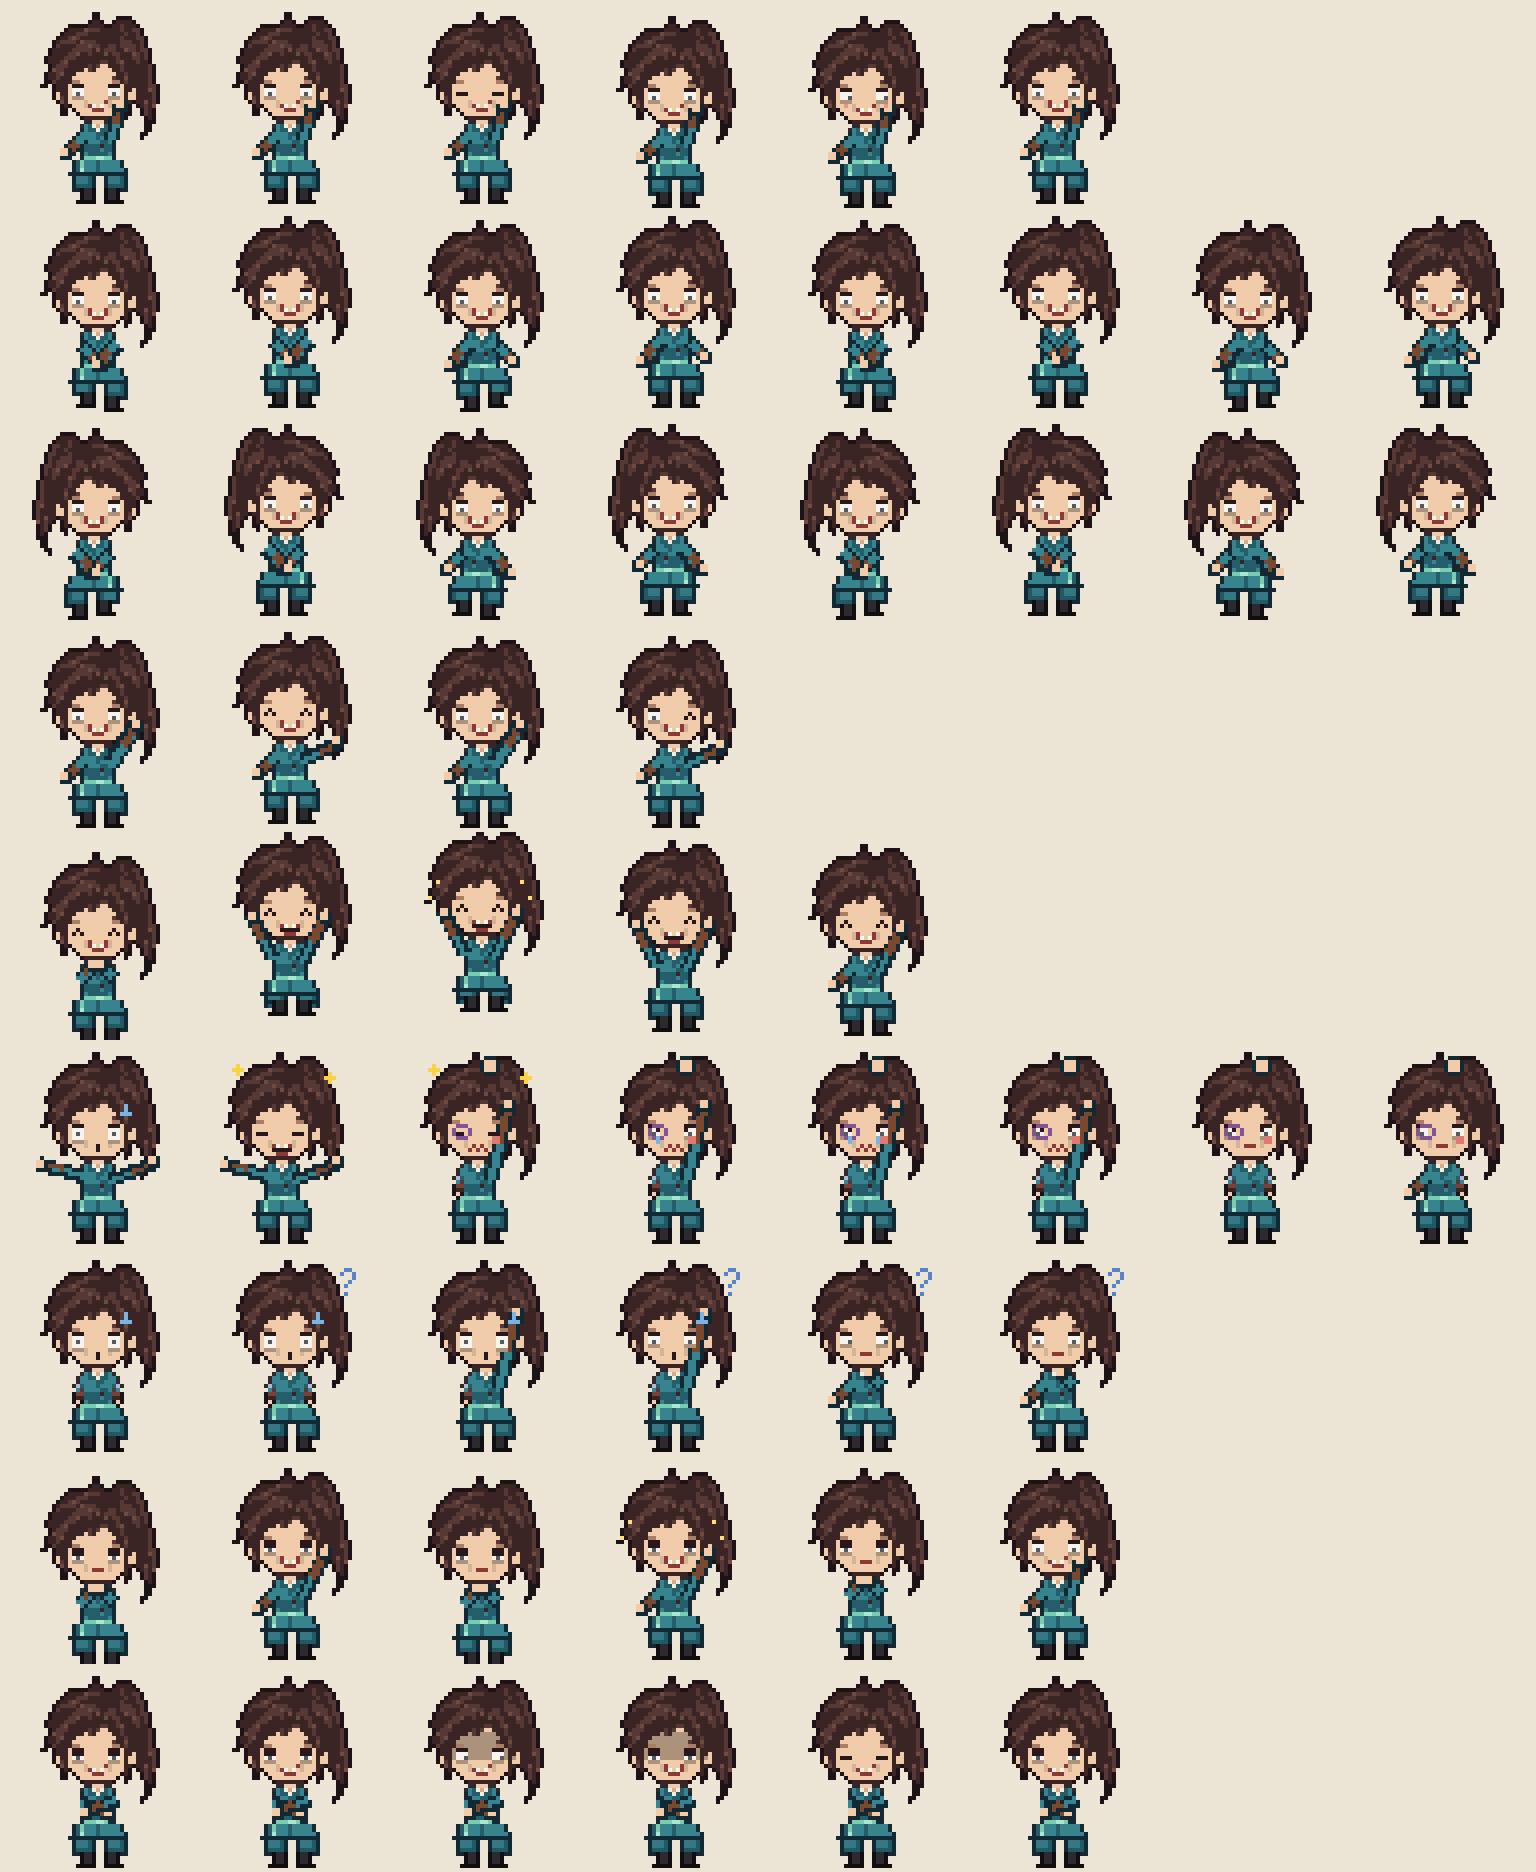
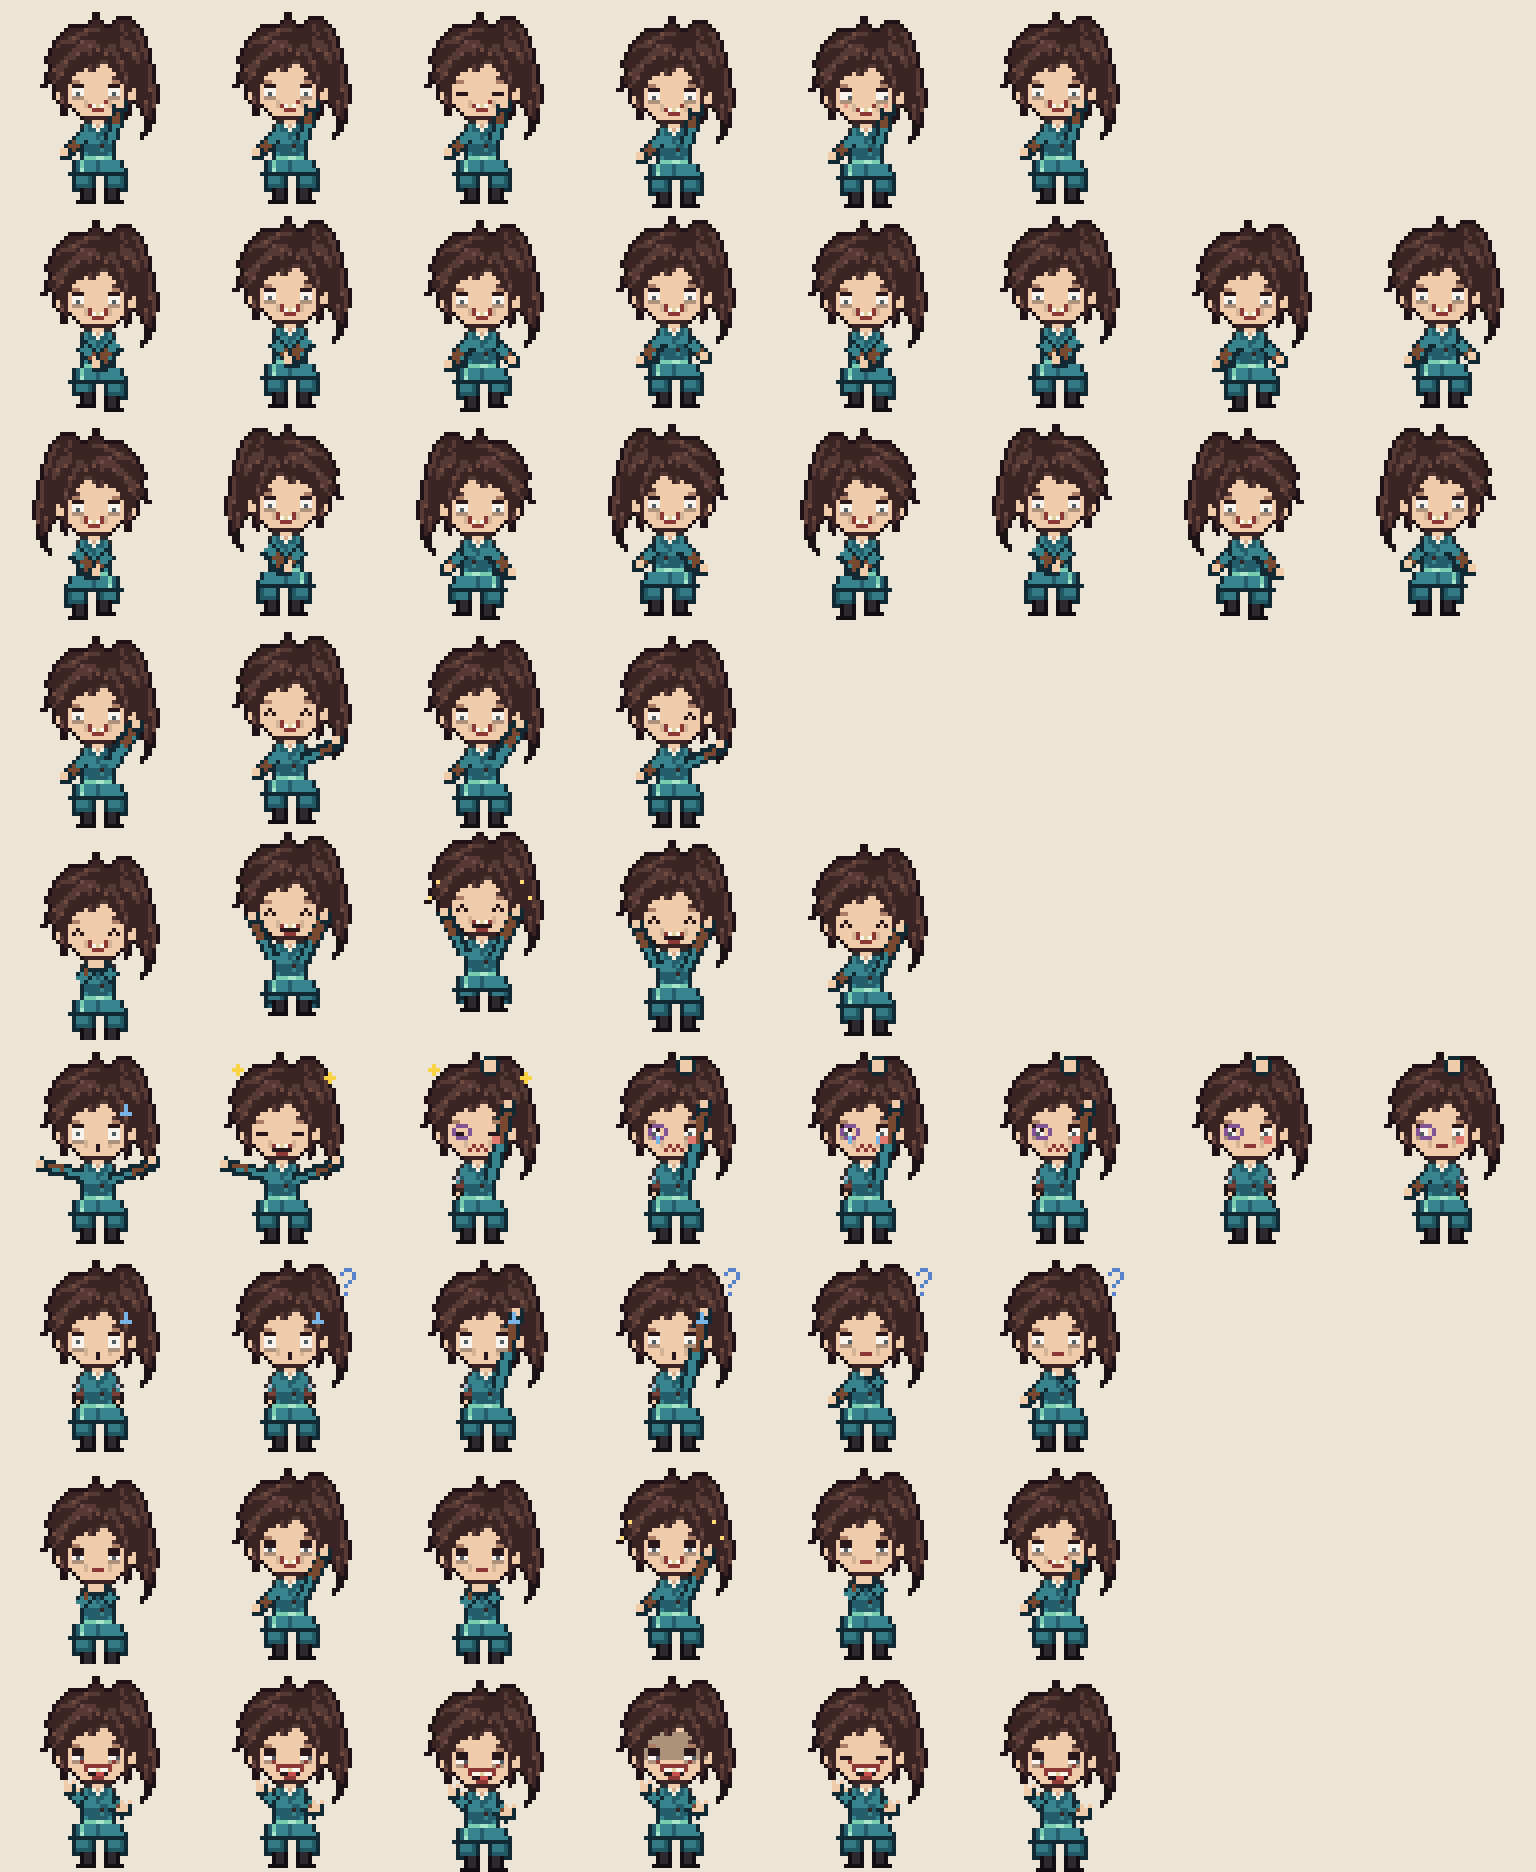
趙活的審視改成決鬥臉：斜眼咧嘴獰笑、雙手彎成爪
Claude-Session: https://claude.ai/code/session_014Ug96dnPv181rpAqSNBU9C

diff --git a/index.html b/index.html
@@ -180,10 +180,10 @@ cd mortal-pets && ./install.sh codex</pre>
 </main>
 
 <!-- ?v= 是版本號：更新角色資料時一起改，避免瀏覽器拿快取裡的舊檔配新網頁 -->
-<script src="claude-plugin/mortal-buddy/scripts/characters.js?v=0.3.18"></script>
-<script src="claude-plugin/mortal-buddy/scripts/locales/ja.js?v=0.3.18"></script>
-<script src="claude-plugin/mortal-buddy/scripts/locales/ko.js?v=0.3.18"></script>
-<script src="claude-plugin/mortal-buddy/scripts/locales/en.js?v=0.3.18"></script>
+<script src="claude-plugin/mortal-buddy/scripts/characters.js?v=0.3.19"></script>
+<script src="claude-plugin/mortal-buddy/scripts/locales/ja.js?v=0.3.19"></script>
+<script src="claude-plugin/mortal-buddy/scripts/locales/ko.js?v=0.3.19"></script>
+<script src="claude-plugin/mortal-buddy/scripts/locales/en.js?v=0.3.19"></script>
 <script>
   const BASE = window.MORTAL_CHARS;
   const { UPCOMING } = BASE;
@@ -435,7 +435,7 @@ cd mortal-pets && ./install.sh codex</pre>
     document.querySelectorAll("#tabs .tab").forEach((t) => t.setAttribute("aria-selected", t.dataset.id === id));
     const outfits = c.outfits || [{ id, name: "" }];
     const petId = outfits.some((o) => o.id === store.outfit[id]) ? store.outfit[id] : outfits[0].id;
-    sprite.style.backgroundImage = `url(codex/pets/${petId}/spritesheet.webp?v=0.3.18)`;
+    sprite.style.backgroundImage = `url(codex/pets/${petId}/spritesheet.webp?v=0.3.19)`;
     const ob = $("outfits");
     ob.innerHTML = "";
     ob.hidden = outfits.length < 2;

diff --git a/tools/build_sprites.py b/tools/build_sprites.py
@@ -311,6 +311,7 @@ ARM_HANDS = {
     "belly": ((5, 5), (-5, 5)),
     "wipe": ((-5, -9), (5, -9)),
     "cross": ((7, 3), (-7, 3)),  # 雙手抱胸
+    "claw": ((-3, -3), (3, 2)),  # 決鬥架式：一手抬在胸前、一手在腹前，手指彎成爪
     "clasp": ((5, -1), (-5, -1)),  # 雙手交握在胸前（小師妹的招牌姿勢）
     "hair_hold": ((-1, -3), (1, -3)),  # 雙手握著胸前的鬢髮
     "ribbon": ((4, -3), (-4, -3)),  # 葉雲裳：雙手捏著胸前的領結緞帶
@@ -1242,6 +1243,9 @@ def draw_bitmap_frame(c, pose):
             put((mx + ex * 3) // 4, (my + ey * 3) // 4, c["gold"])
         d.rectangle([ex - 1, ey - 1, ex + 1, ey + 1], fill=O)
         d.rectangle([ex - 1, ey - 1, ex, ey], fill=skin)
+        if name == "claw":  # 彎起來的指尖
+            for fx_, fy_ in ((-1, -2), (1, -2), (2, 0)):
+                put(ex + fx_ * (1 if side == 0 else -1), ey + fy_, skin)
         hands[side] = (ex, ey)
 
     # 五官
@@ -1274,11 +1278,11 @@ def draw_bitmap_frame(c, pose):
     if eyes == "sad":  # 眉尾下垂
         putf(19, 21, brow); putf(28, 21, brow)
     L, R = c.get("bm_eye_x", (20, 27))
-    if c.get("bm_eyes") == "bulge" and eyes in ("open", "wide", "side", "look_up", "drowsy", "wink", "sad"):
+    if c.get("bm_eyes") == "bulge" and eyes in ("open", "wide", "side", "look_up", "drowsy", "wink", "sad", "sly"):
         # 趙活：凸出來的大白眼、小小的灰眼珠，下面掛著眼袋
         bag = tuple(int(v * 0.72) for v in skin[:3]) + (255,)
         pupil = (84, 90, 98, 255)
-        o = {"side": 1, "look_up": 0}.get(eyes, 0)
+        o = {"side": 1, "sly": 1}.get(eyes, 0)
         for x in (L, R):
             if eyes == "wink" and x == R:
                 putf(x - 1, 23, eye); putf(x, 22, eye); putf(x + 1, 23, eye)
@@ -1289,7 +1293,7 @@ def draw_bitmap_frame(c, pose):
                     putf(xx, y, white_eye := (246, 244, 236, 255))
             for xx in (x - 1, x, x + 1):
                 putf(xx, 21, eye)
-            if eyes == "drowsy":  # 眼皮垂下來蓋住一半
+            if eyes in ("drowsy", "sly"):  # 眼皮垂下來蓋住一半；sly 是決鬥時斜眼瞄人
                 for xx in (x - 1, x, x + 1):
                     putf(xx, 22, eye)
             if eyes == "sad":  # 眼皮往外垂
@@ -1336,6 +1340,17 @@ def draw_bitmap_frame(c, pose):
             for x in range(22, 27):
                 putf(x, 26, m); putf(x, 27, eye)
             putf(23, 26, white); putf(24, 26, (224, 210, 160, 255)); putf(25, 26, white)
+            for x in range(23, 26):
+                putf(x, 28, m)
+        elif mouth == "duel":  # 決鬥臉：嘴角咧到耳根，露出上排牙和舌頭
+            putf(20, 24, m); putf(28, 24, m)
+            for x in range(21, 28):
+                putf(x, 25, m)
+            for x in range(22, 27):
+                putf(x, 26, white); putf(x, 27, eye)
+            putf(24, 26, (224, 210, 160, 255))
+            putf(21, 26, m); putf(27, 26, m)
+            putf(24, 27, (200, 80, 80, 255)); putf(25, 27, (200, 80, 80, 255))
             for x in range(23, 26):
                 putf(x, 28, m)
         elif mouth == "flat":
@@ -1894,13 +1909,13 @@ def poses_zhaohuo():
                     P(arms=("hip", "fist_up"), eyes="squint", mouth="grin", fx=("spark",)),
                     P(arms=("fist_side", "fist_side"), eyes="squint", mouth="flat"),
                     P(arms=("hip", "cheek"), eyes="open", mouth="smirk")],
-        # 審視：抱胸打量，臉上一片陰影冷笑
-        "review": [P(arms=("cross", "cross"), eyes="drowsy", mouth="smirk"),
-                   P(arms=("cross", "cross"), eyes="drowsy", mouth="smirk", tilt=1),
-                   P(arms=("cross", "cross"), eyes="side", mouth="smirk", fx=("gloom",)),
-                   P(arms=("cross", "cross"), eyes="drowsy", mouth="grin", fx=("gloom",)),
-                   P(arms=("cross", "cross"), eyes="blink", mouth="smirk"),
-                   P(arms=("cross", "cross"), eyes="drowsy", mouth="smirk")],
+        # 審視：擺出決鬥架式，斜眼咧嘴獰笑（官方決鬥時那張臉）
+        "review": [P(arms=("claw", "claw"), eyes="sly", mouth="duel"),
+                   P(arms=("claw", "claw"), eyes="sly", mouth="duel", tilt=1),
+                   P(arms=("claw", "claw"), eyes="sly", mouth="duel", dy=1),
+                   P(arms=("claw", "claw"), eyes="sly", mouth="duel", tilt=1, fx=("gloom",)),
+                   P(arms=("claw", "claw"), eyes="blink", mouth="duel"),
+                   P(arms=("claw", "claw"), eyes="sly", mouth="duel", dy=1)],
     }
 
 
